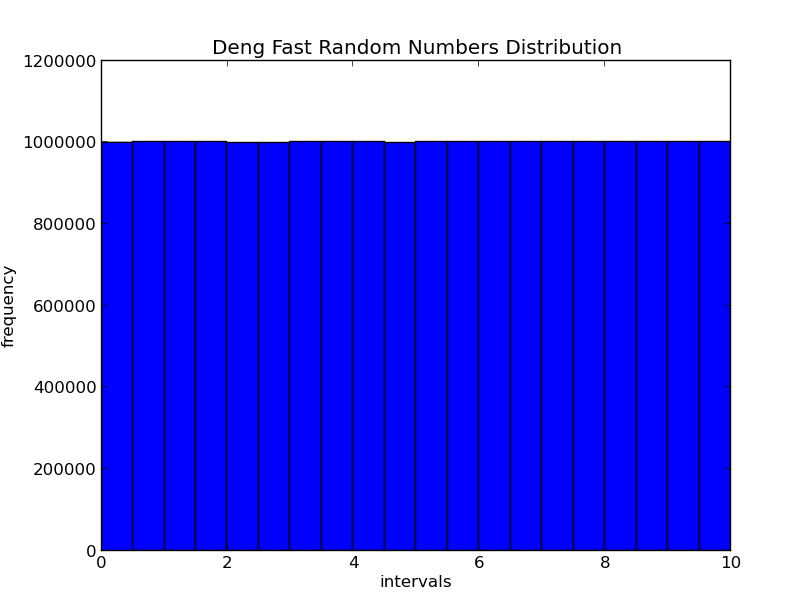
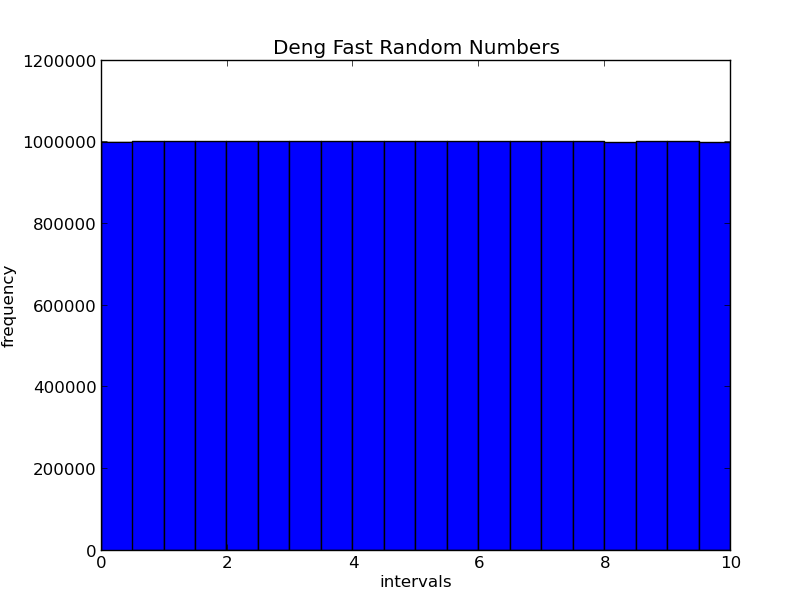
integrate update

diff --git a/integrate/example.py b/integrate/example.py
@@ -16,7 +16,7 @@ from matplotlib import pyplot
 from math import sin
 
 #uniform random numbers
-pyplot.title('Deng Fast Random Numbers Distribution')
+pyplot.title('Deng Fast Random Numbers')
 pyplot.ylabel('frequency')
 pyplot.xlabel('intervals')
 
